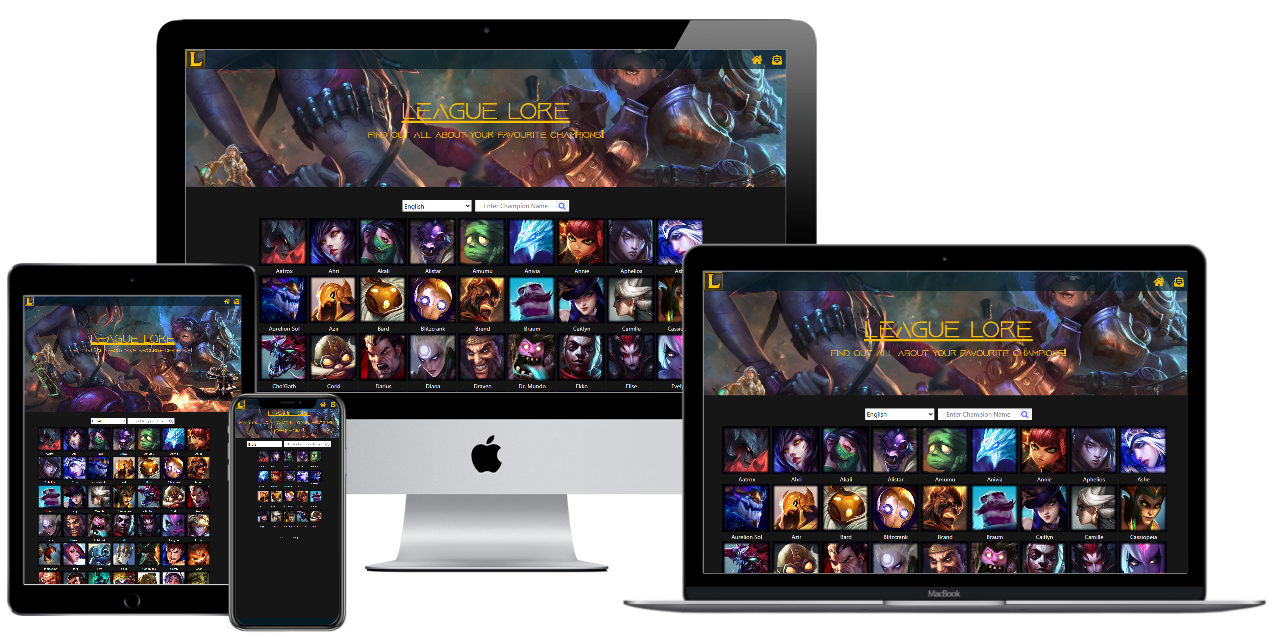
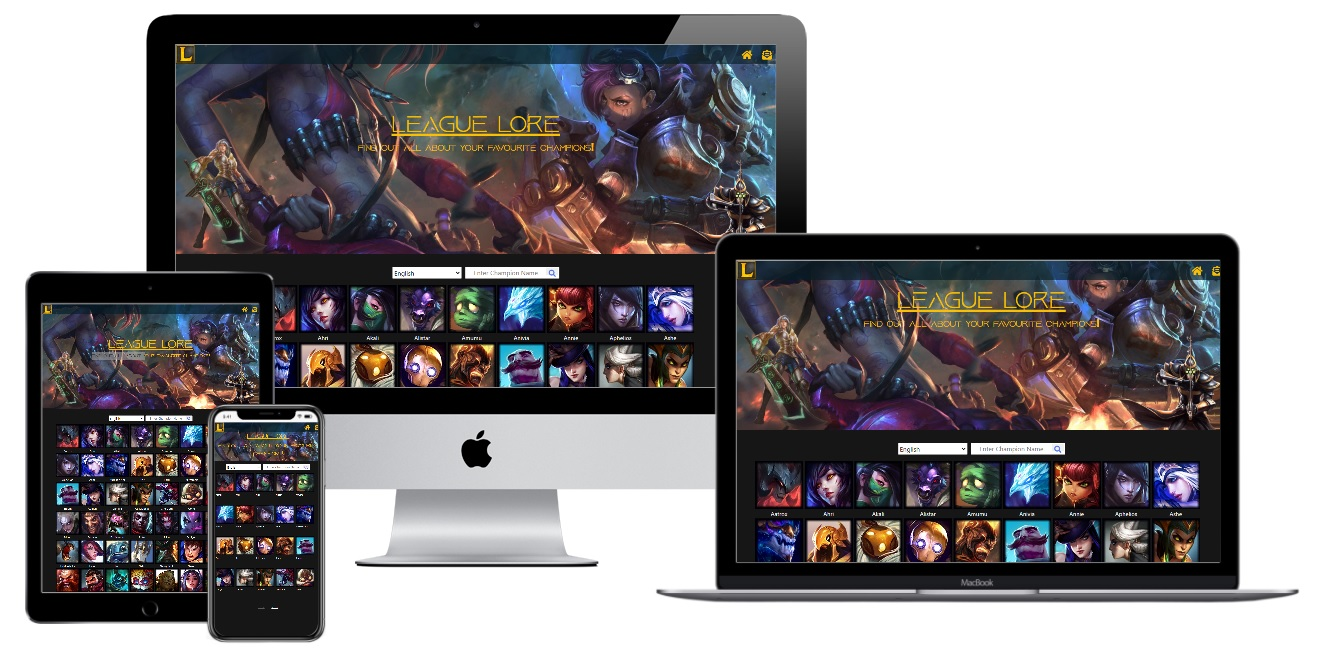
Styling change and code change in js
- Removed styling in style.css
- Re-arranged media queries in order in style.css
- Changed grid image sizing on smaller screens in style.css
- Removed margin bottom for item class in style.css
- Removed container class divs in champLore.js
- Added user story testing in README.md
- Changed windowSize variable in grid.js

diff --git a/assets/css/style.css b/assets/css/style.css
@@ -189,8 +189,6 @@ body {
 .item .champ-name {
 	color: white;
 	font-size: 0.9em;
-	margin-left: 4px;
-	overflow: hidden;
 }
 
 .hide {
@@ -240,8 +238,6 @@ body {
 .splash {
 	width: 100%;
 	object-fit: cover;
-	margin-left: 15px;
-	margin-right: 15px;
 }
 
 .stats-bar {
@@ -356,31 +352,55 @@ textarea.form-input {
 
 /*---Media Queries---*/
 
+@media (max-width: 1024px) {
+
+    .champ-grid {
+        margin-left: 32px;
+    }
+
+	.pagination-buttons {
+		display: block;
+	}
+    
+}
+
+@media (min-width: 992px) {
+
+	.callout {
+		height: 523px;
+		background-image: url("../images/riven.jpg"), url("../images/yi.jpg"), url("../images/backgroundlol.jpg");
+		background-position: left 0 top 228px, right 0 top 287px, center;
+		background-repeat: no-repeat, no-repeat, no-repeat;
+		background-size: 250px, 400px, 100%;
+		margin-bottom: 2rem;
+	}
+    
+	.callout-text {
+		position: relative;
+		top: 25%;
+	}
+    
+}
+
 @media (max-width: 768px) {
 
 	.callout {
 		margin-bottom: 1rem;
 	}
 
-	.pagination-buttons {
-		display: block;
-	}
-
 	.champ-name {
 		font-size: 0.7em !important;
-		position: absolute;
-		bottom: -30px;
 	}
 
 	.item {
-		margin-bottom: 40px;
+		margin-bottom: 10px;
 		margin-left: 6px;
 	}
 
-	.item img {
-		width: 60px;
-		height: 60px;
-	}
+    .item img {
+        width: 94px;
+        height: 94px;
+    }
 
 	.blurb {
 		font-size: 5vw;
@@ -393,7 +413,7 @@ textarea.form-input {
 	}
 
 	.champ-grid {
-		width: 58%;
+		width: 100%;
         margin: auto !important;
 	}
 
@@ -405,37 +425,16 @@ textarea.form-input {
 	}
 
     .marg-b {
-        margin-bottom: -30px;
+        margin-bottom: -50px;
     }
-}
-
-@media (min-width: 992px) {
-
-	.callout {
-		height: 40vh;
-		background-image: url("../images/riven.jpg"), url("../images/yi.jpg"), url("../images/backgroundlol.jpg");
-		background-position: left 0 top 228px, right 0 top 287px, center;
-		background-repeat: no-repeat, no-repeat, no-repeat;
-		background-size: 250px, 400px, 100%;
-		margin-bottom: 2rem;
-	}
-    
-	.callout-text {
-		position: relative;
-		top: 25%;
-	}
-
-}
-
-@media (max-width: 1024px) {
-
-    .champ-grid {
-        margin-left: 32px;
-    }
-    
 }
 
 @media (max-width: 414px) {
+
+	.item img {
+		width: 60px;
+		height: 60px;
+	}    
 
     .champ-grid {
         width: 97%;

diff --git a/assets/js/grid.js b/assets/js/grid.js
@@ -9,7 +9,6 @@ $('select[name="dropdown"]').change(function() {
     getChampions();
 });
 
-
 //Gets Champions JSON.
 function getChampions(cb) {
     $("#lore-page").hide();
@@ -39,7 +38,6 @@ $( document ).ready(function() {
     getChampions(buildGrid);
 });
 
-
 // Build champion icon display.
 function buildGrid(champData, patch) {
     let championArray = Array.from(Object.values(champData.data));
@@ -50,7 +48,7 @@ function buildGrid(champData, patch) {
     let prev = document.querySelector(".prev");
     let next = document.querySelector(".next");
     let page = document.querySelector(".page-num");
-    let windowSize = window.matchMedia("(max-width: 768px)");
+    let windowSize = window.matchMedia("(max-width: 1025px)");
     let maxItem, pagination;
 
     //Sets maxItem parameter based on window size.
@@ -155,15 +153,12 @@ function searchChamp(champions) {
     }
 }
 
-
-
 //Removes active class from non relevant names.
 function removeActive(x) {
     for (i = 0; i < x.length; i++) {
         x[i].classList.remove("autocomplete-active");
     }
 }
-
 
 //Enables autocomplete when typing in a champions name.
 function autocomplete(championNames) {

diff --git a/assets/js/champLore.js b/assets/js/champLore.js
@@ -24,13 +24,11 @@ function champPage(champId, champName) {
                     $("#lore-page")
                         .html(
                             `
-              <div class = "container">
                <h1 class="text-center name">${champName},<br><span style="text-transform: capitalize;">${
                             champion.title
                             }</span>
                </h1>
             <img class = "splash" src="http://ddragon.leagueoflegends.com/cdn/img/champion/splash/${champId}_0.jpg" alt="${champName}">
-            <div class = "container">
             <div class = "row">
             <div class = "col-12">
             <br>
@@ -103,8 +101,6 @@ function champPage(champId, champName) {
                             abilityR.name
                             }</strong><br>${abilityR.description}</p></div>
             <br>
-            </div>
-            </div>
             </div>
             `
                         )

diff --git a/README.md b/README.md
@@ -38,7 +38,8 @@ and a contact page where users can submit ideas on what else they would like to 
 The layout of the site would be a 2 page site, a champion page and contact page. Through these pages
 the user will have access to a grid from which they can either use the search bar provide to find champions or
 a particular champion they are looking for. On selection of a champion the grid would be cleared and filled with
-information about the selected champion along with a youtube video of the champions spotlight (if available). There is also pagination available for mobile.
+information about the selected champion along with a youtube video of the champions spotlight (if available). 
+There is also pagination available for mobile and tablet.
 
 ## The Skeleton Plane
 
@@ -56,11 +57,10 @@ the user. If the font is not compatible for the device viewing the site, the fon
 
 ## User Stories
 
-- As a user, I want to be able to search for a specific champion.
-- As a user, I want to be able to browse and choose champions that look interesting to me.
+- As a user, I want to be able to search for a specific champion or a champion that looks interesting.
 - As a user, I want to be able to change language if I'm not a native English speaker.
 - As a user, I want to be able to suggest changes that could be made to make the site more appealing in the future.
-- As a user, I want the grid to be compact in mobile view to prevent having a large page.
+- As a user, I want the grid to be compact in mobile and tablet view to prevent having a large page.
 
 # Features
 
@@ -69,6 +69,9 @@ The index page has 4 sections along with a navbar.
 The sections are as follows:
 
 - A section containing callout and site name.
+- A section containing the champions grid.
+- A section for the champion lore to be built in from the Riot API.
+- A section for the champion spotlight video to be placed in from the Youtube API.
 
 ## Existing Features
 
@@ -76,7 +79,7 @@ The existing features are:
 
 - Language selection that is remembered if page is refreshed.
 - Search bar with autocomplete to display all names that match.
-- Pagination for grid on mobile view to make it easier to use.
+- Pagination for grid on mobile and tablet view to make it easier to use.
 - Youtube video for selected champion (currently only available in English).
 - Contact form to email site creator with site ideas and improvements.
 
@@ -86,7 +89,7 @@ The existing features are:
 - Add in in depth information for champion ability cooldowns and damage.
 - Add in item builder and rune/ mastery information.
 - Slideshow for each champions available skins.
-- Add in recommended builds.
+- Add in recommended builds for champions.
 
 ## Technologies Used
 
@@ -108,18 +111,50 @@ The existing features are:
   - To search youtube videos.
 - [EmailJS](https://www.emailjs.com/)
   - To link contact page to google email account.
+- [Riot API](https://developer.riotgames.com/docs/lol)
+  - To obtain data on champions and search specific champions.
 
 # Testing
 
+The site was tested on several devices and browsers to ensure responsiveness throughout.
+
+Browsers: Chrome, Microsoft Edge and Safari
+
+Devices included: Samsung Galaxy S10+, iPhone X, Samsung Galaxy Tab A, Desktop PC and MacBook Air.
+
+The custom font "Aquire Light" only works on desktop.
+
 ## Testing based on user stories:
 
-## As a user, 
+## As a user, I want to be able to search for a specific champion or a champion that looks interesting.
 
-## As a user, 
+1. Filling in search bar brings up an autocomplete dropdown underneath the search bar to help narrow down a search, hitting enter fades the grid 
+and builds the champions lore and video section.
+    1. Searching with a blank search bar returns a warning that it is required to be filled.
+    2. Searching with a name that doesn't match notifies user underneath the search bar that there is no result.
 
-## As a user, 
+2. Clicking on a champions image in the grid, fades the grid and builds the champions lore section and video section.
 
-## As a user, 
+3. In mobile and tablet view the grid is reduced to 20 champions with pagination below the grid.
+    1. Previous button is disabled on first page.
+    2. Clicking on next button moves to next 20 champions until there are no more champions to display then next button becomes disabled.
+
+## As a user, I want to be able to change language if I'm not a native English speaker.
+
+1. Clicking on the dropdown next to the search bar brings up a list of available language options with English as default.
+    1. Changing the language rebuilds the grid to display names in selected language.
+    2. Refreshing the page remembers the newly selected language.
+    3. Clicking on a champion builds the champions lore in the selected language.
+        - Returning from the lore to grid remembers the selected language.
+
+## As a user, I want to be able to voice my options on changes that could be made to make the site more appealing in the future.
+
+1. Leaving either name, email or idea box empty notifies user that they are required to be able to send.
+2. After submitting form user is notified that email has been sent as the send button becomes disabled and text changes to notify user that the email has been sent.
+3. After submitting the form is cleared.
+
+## As a user, I want the grid to be compact in mobile and tablet view to prevent having a large page.
+
 
 
 # Bugs and Problems
@@ -143,7 +178,7 @@ Additionally the site will be updated after any git push to the master branch.
 
 ### How to run code locally.
 
-To run the site locally you can visit [here]() and click on the "Code" drop down option, you then copy the HTTPS code provided into a code editor of your choice.
+To run the site locally you can visit [here](https://github.com/bob134552/LeagueLore) and click on the "Code" drop down option, you then copy the HTTPS code provided into a code editor of your choice.
 
 # Credits
 
